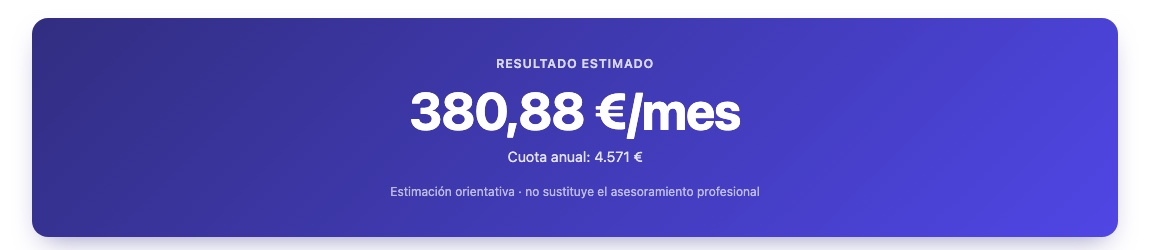
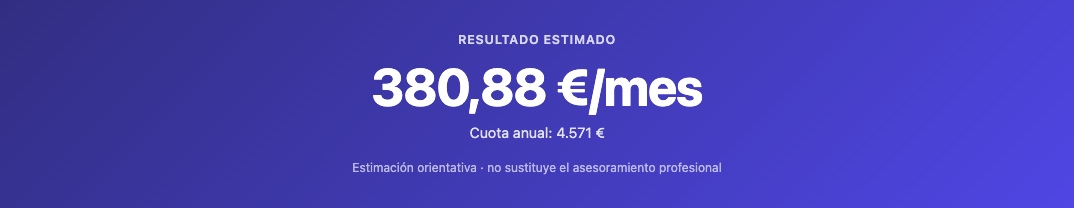
Calcula lo tuyo: cifras en color, capturas móviles, anatomía de página y rendimiento actualizado

diff --git a/calcula-lo-tuyo/index.html b/calcula-lo-tuyo/index.html
@@ -45,11 +45,19 @@
 
     /* ---------------- CIFRAS ---------------- */
     .cs-stats { padding: 8px 0 72px; }
-    .cs-stats-grid { display: grid; grid-template-columns: repeat(4, minmax(0, 1fr)); gap: 0; border-top: 1px solid var(--line); border-bottom: 1px solid var(--line); }
-    .cs-stat { padding: 32px 24px; border-left: 1px solid var(--line); }
-    .cs-stat:first-child { border-left: 0; padding-left: 0; }
-    .cs-stat b { display: block; font-size: clamp(2.4rem, 4.4vw, 3.6rem); font-weight: 500; letter-spacing: -0.04em; line-height: 1; color: var(--ink); }
-    .cs-stat span { display: block; margin-top: 10px; font-size: 15px; color: var(--ink-2); line-height: 1.4; }
+    .cs-stats-grid { display: grid; grid-template-columns: repeat(4, minmax(0, 1fr)); gap: 16px; }
+    .cs-stat { padding: 28px 26px 26px; border-radius: 22px; border: 1px solid rgb(0 0 0 / 5%); transition: transform .18s cubic-bezier(0.22, 0.61, 0.36, 1); }
+    .cs-stat:hover { transform: translateY(-4px) scale(1.02); }
+    .cs-stat b { display: block; font-size: clamp(2.8rem, 5vw, 4.2rem); font-weight: 500; letter-spacing: -0.045em; line-height: 1; }
+    .cs-stat span { display: block; margin-top: 14px; font-size: 15px; line-height: 1.4; color: rgb(0 0 0 / 66%); }
+    .cs-stat--lila { background: linear-gradient(145deg, #eef0ff 0%, #ddd9fb 100%); }
+    .cs-stat--lila b { color: #4f46e5; }
+    .cs-stat--menta { background: linear-gradient(145deg, #e2f8f2 0%, #c8ece3 100%); }
+    .cs-stat--menta b { color: #0f766e; }
+    .cs-stat--rosa { background: linear-gradient(145deg, #fdeef4 0%, #f8d7e6 100%); }
+    .cs-stat--rosa b { color: #be185d; }
+    .cs-stat--azul { background: linear-gradient(145deg, #e8f1ff 0%, #cfe2ff 100%); }
+    .cs-stat--azul b { color: #1d4ed8; }
 
     /* ---------------- CABECERA DE SECCIÓN ---------------- */
     .cs-section { padding: 40px 0 72px; }
@@ -64,15 +72,16 @@
     .cs-meta-label { margin-bottom: 8px; font-size: 14px; font-weight: 500; color: var(--ink-3); }
     .cs-meta-main { font-size: 16px; font-weight: 500; color: var(--ink); line-height: 1.45; }
     .project-meta-pills { display: flex; flex-wrap: wrap; gap: 8px; }
-    .meta-pill { padding: 6px 12px; border-radius: 999px; border: 1px solid rgba(148, 163, 184, 0.7); cursor: default; }
+    .meta-pill { padding: 6px 12px; border-radius: 999px; border: 1px solid rgba(148, 163, 184, 0.7); cursor: default; transition: transform 0.18s cubic-bezier(0.22, 0.61, 0.36, 1), background 0.18s ease; }
+    .meta-pill:hover { transform: translateY(-3px) scale(1.03); background: #fff; }
 
     /* ---------------- PANELES CON CAPTURAS ---------------- */
     .cs-panel { position: relative; padding: 48px 48px 0; border-radius: 24px; overflow: hidden; margin-bottom: 24px; }
-    .cs-panel--lila { background: linear-gradient(135deg, #eef0ff 0%, #ddd9fb 100%); }
-    .cs-panel--menta { background: linear-gradient(135deg, #e2f8f2 0%, #c8ece3 100%); }
-    .cs-panel .shot { border-radius: 14px 14px 0 0; overflow: hidden; max-height: 520px; box-shadow: 0 24px 60px -18px rgb(30 20 90 / 38%); background: #fff; }
+    .cs-panel--lila { background: var(--wash); }
+    .cs-panel--menta { background: var(--wash); }
+    .cs-panel .shot { border-radius: 14px 14px 0 0; overflow: hidden; max-height: 520px; box-shadow: 0 24px 60px -24px rgb(0 0 0 / 30%); background: #fff; }
     .cs-panel .shot img { width: 100%; }
-    .cs-float { position: absolute; right: 28px; bottom: 36px; width: 50%; max-width: 560px; border-radius: 16px; overflow: hidden; box-shadow: 0 26px 60px -12px rgb(30 20 90 / 55%); border: 1px solid rgb(255 255 255 / 70%); }
+    .cs-float { position: absolute; right: 28px; bottom: 36px; width: 50%; max-width: 560px; border-radius: 12px; overflow: hidden; box-shadow: 0 26px 60px -14px rgb(0 0 0 / 45%); }
     .cs-caption { margin: 0 0 24px; font-size: 14px; color: var(--ink-3); }
 
     /* ---------------- TARJETAS (BENTO) ---------------- */
@@ -121,6 +130,26 @@
     .ring span { display: block; margin-top: 8px; font-size: 13px; color: var(--ink-2); line-height: 1.3; }
     .cs-note { margin-top: 18px !important; font-size: 13px !important; color: var(--ink-3) !important; line-height: 1.5 !important; }
 
+
+    /* ---------------- MÓVILES ---------------- */
+    .cs-phones { display: flex; justify-content: center; align-items: flex-end; gap: 28px; padding: 48px 32px 0; border-radius: 24px; overflow: hidden; background: var(--wash); margin-bottom: 24px; }
+    .cs-phone { width: min(260px, 30%); border: 7px solid #0d0b12; border-bottom: 0; border-radius: 0; overflow: hidden; background: #fff; box-shadow: 0 24px 60px -24px rgb(0 0 0 / 40%); }
+    .cs-phone img { width: 100%; }
+
+    /* ---------------- ANATOMÍA DE UNA PÁGINA ---------------- */
+    .cs-rows { display: grid; gap: 24px; }
+    .cs-row { display: grid; grid-template-columns: minmax(0, 1fr) minmax(0, 1.5fr); gap: 48px; align-items: center; padding: 40px; border-radius: 26px; }
+    .cs-row--lila { background: var(--wash); }
+    .cs-row--menta { background: var(--wash); }
+    .cs-row--rosa { background: var(--wash); }
+    .cs-row--azul { background: var(--wash); }
+    .cs-row-n { display: inline-flex; align-items: center; justify-content: center; width: 34px; height: 34px; margin-bottom: 16px; border-radius: 50%; background: var(--ink); color: var(--bg-body); font-size: 15px; font-weight: 500; }
+    .cs-row h3 { margin: 0 0 12px; font-size: clamp(1.4rem, 2.4vw, 1.8rem); font-weight: 500; letter-spacing: -0.025em; line-height: 1.2; color: var(--ink); }
+    .cs-row p { margin: 0; font-size: 16px; line-height: 1.6; color: var(--ink-2); }
+    .cs-row p strong { color: var(--ink); font-weight: 500; }
+    .cs-row-media { display: grid; gap: 14px; }
+    .cs-row-media img { width: 100%; border-radius: 14px; box-shadow: 0 20px 50px -22px rgb(0 0 0 / 35%); background: #fff; }
+
     /* ---------------- CIERRE ---------------- */
     .cs-end { padding: 24px 0 72px; }
     .cs-end .cs-center { margin-bottom: 28px; }
@@ -147,8 +176,9 @@
       .card--5, .card--7, .card--12 { grid-column: auto; }
       .card--wide { flex-direction: column; gap: 24px; }
       .cs-stats-grid { grid-template-columns: repeat(2, minmax(0, 1fr)); }
-      .cs-stat:nth-child(3) { border-left: 0; padding-left: 0; }
-      .cs-stat:nth-child(n+3) { border-top: 1px solid var(--line); }
+      .cs-row { grid-template-columns: minmax(0, 1fr); gap: 28px; padding: 28px; }
+      .cs-phones { gap: 14px; padding: 32px 20px 0; }
+      .cs-phone { border-width: 5px; }
       .cs-meta { grid-template-columns: minmax(0, 1fr); gap: 24px; }
       .cs-panel { padding: 28px 24px 0; border-radius: 20px; }
       .cs-float { position: static; width: 100%; max-width: none; margin: 18px 0 24px; }
@@ -165,10 +195,18 @@
     }
 
     /* ---------------- MODO OSCURO ---------------- */
-    html[data-theme="dark"] .cs-panel--lila { background: linear-gradient(135deg, rgb(168 85 247 / 20%) 0%, rgb(99 102 241 / 14%) 100%); }
-    html[data-theme="dark"] .cs-panel--menta { background: linear-gradient(135deg, rgb(20 184 166 / 18%) 0%, rgb(16 120 110 / 12%) 100%); }
     html[data-theme="dark"] .project-hero-media { box-shadow: 0 24px 56px -32px rgb(168 85 247 / 20%); }
     html[data-theme="dark"] .code { border: 1px solid var(--line); }
+    html[data-theme="dark"] .cs-stat--lila { background: linear-gradient(135deg, rgb(168 85 247 / 20%) 0%, rgb(99 102 241 / 14%) 100%); }
+    html[data-theme="dark"] .cs-stat--menta { background: linear-gradient(135deg, rgb(20 184 166 / 18%) 0%, rgb(16 120 110 / 12%) 100%); }
+    html[data-theme="dark"] .cs-stat--rosa { background: linear-gradient(135deg, rgb(236 72 153 / 18%) 0%, rgb(190 24 93 / 12%) 100%); }
+    html[data-theme="dark"] .cs-stat--azul { background: linear-gradient(135deg, rgb(59 130 246 / 18%) 0%, rgb(29 78 216 / 12%) 100%); }
+    html[data-theme="dark"] .cs-stat { border-color: var(--line); }
+    html[data-theme="dark"] .cs-stat span { color: var(--ink-2); }
+    html[data-theme="dark"] .cs-stat--lila b { color: #a5b4fc; }
+    html[data-theme="dark"] .cs-stat--menta b { color: #5eead4; }
+    html[data-theme="dark"] .cs-stat--rosa b { color: #f9a8d4; }
+    html[data-theme="dark"] .cs-stat--azul b { color: #93c5fd; }
   </style>
   <link href="https://fonts.googleapis.com/css2?family=Inter:wght@400;500;600&display=swap" rel="stylesheet" />
   <link rel="stylesheet" href="../css/scandi-project.css" />
@@ -224,10 +262,10 @@
     <section class="cs-stats" aria-label="El proyecto en cifras">
       <div class="container">
         <div class="cs-stats-grid">
-          <div class="cs-stat"><b>16</b><span>calculadoras laborales</span></div>
-          <div class="cs-stat"><b>13</b><span>guías revisadas contra el BOE</span></div>
-          <div class="cs-stat"><b>155</b><span>páginas en el sitemap</span></div>
-          <div class="cs-stat"><b>27</b><span>pruebas automáticas de cálculo</span></div>
+          <div class="cs-stat cs-stat--lila"><b>16</b><span>calculadoras laborales</span></div>
+          <div class="cs-stat cs-stat--menta"><b>13</b><span>guías revisadas contra el BOE</span></div>
+          <div class="cs-stat cs-stat--rosa"><b>155</b><span>páginas en el sitemap</span></div>
+          <div class="cs-stat cs-stat--azul"><b>27</b><span>pruebas automáticas de cálculo</span></div>
         </div>
       </div>
     </section>
@@ -287,7 +325,7 @@
             <img src="img/calculadora.jpg" width="1440" height="1000" loading="lazy" alt="Calculadora de cuota de autónomos con respuesta rápida, formulario y botón de calcular" />
           </div>
           <figure class="cs-float">
-            <img src="img/resultado.jpg" width="1150" height="250" loading="lazy" alt="Resultado de la calculadora: 380,88 euros al mes de cuota y 4.571 euros al año" />
+            <img src="img/resultado.jpg" width="1074" height="208" loading="lazy" alt="Resultado de la calculadora: 380,88 euros al mes de cuota y 4.571 euros al año" />
           </figure>
         </div>
         <p class="cs-caption">Calculadora de autónomos: respuesta rápida arriba, formulario claro y un resultado grande.</p>
@@ -298,6 +336,102 @@
           </div>
         </div>
         <p class="cs-caption">Calendario 2027 con identidad propia (verde azulado) para no mezclarse con las calculadoras.</p>
+
+        <div class="cs-phones">
+          <figure class="cs-phone"><img src="img/movil-portada.jpg" width="780" height="1688" loading="lazy" alt="Portada de Calcula lo tuyo en el móvil: buscador y situaciones laborales en dos columnas" /></figure>
+          <figure class="cs-phone"><img src="img/movil-resultado.jpg" width="780" height="1688" loading="lazy" alt="Resultado de la calculadora de autónomos en el móvil con el desglose" /></figure>
+          <figure class="cs-phone"><img src="img/movil-calendario.jpg" width="780" height="1688" loading="lazy" alt="Calendario laboral 2027 en el móvil con filtro por comunidad" /></figure>
+        </div>
+        <p class="cs-caption">Y en el móvil: el mismo diseño, pensado para pantallas pequeñas.</p>
+      </div>
+    </section>
+
+    <!-- ANATOMÍA DE UNA PÁGINA -->
+    <section class="cs-section">
+      <div class="container">
+        <div class="cs-center">
+          <span class="cs-eyebrow">Anatomía de una página</span>
+          <h2>Cada página sigue el mismo orden</h2>
+          <p>
+            Tomando «Pagas extra» como ejemplo: primero se entiende con un caso real, después se confirma con la ley,
+            se resuelven las dudas y se acompaña a la persona hacia lo siguiente que va a necesitar.
+          </p>
+        </div>
+
+        <div class="cs-rows">
+
+          <div class="cs-row cs-row--lila">
+            <div>
+              <span class="cs-row-n">1</span>
+              <h3>Un caso real, paso a paso</h3>
+              <p>
+                Antes que la teoría, <strong>simulamos un caso</strong>: Sergio, comercial en Sevilla, con su sueldo, sus pagas y
+                el cálculo línea a línea. Se entiende sin saber de nóminas y funciona como respuesta concreta para quien busca justo eso.
+              </p>
+            </div>
+            <div class="cs-row-media">
+              <img src="img/ejemplo-caso.jpg" width="1150" height="920" loading="lazy" alt="Caso de Sergio en la página de pagas extra: cálculo paso a paso con el total acumulado" />
+            </div>
+          </div>
+
+          <div class="cs-row cs-row--menta">
+            <div>
+              <span class="cs-row-n">2</span>
+              <h3>Lo que dice la ley y lo que dice tu convenio</h3>
+              <p>
+                Después, la <strong>norma</strong> explicada en llano: qué garantiza el Estatuto de los Trabajadores, qué decide el convenio
+                y cómo afectan la Seguridad Social, el IRPF y los casos especiales.
+              </p>
+            </div>
+            <div class="cs-row-media">
+              <img src="img/ejemplo-ley.jpg" width="1150" height="650" loading="lazy" alt="Sección sobre lo que dice la ley y el convenio en la página de pagas extra" />
+            </div>
+          </div>
+
+          <div class="cs-row cs-row--rosa">
+            <div>
+              <span class="cs-row-n">3</span>
+              <h3>Preguntas frecuentes</h3>
+              <p>
+                Las <strong>dudas reales</strong> de la gente, en formato pregunta y respuesta. Sirven a quien lee y también a los
+                buscadores y a las IA, que pueden citar la respuesta exacta.
+              </p>
+            </div>
+            <div class="cs-row-media">
+              <img src="img/ejemplo-faq.jpg" width="1150" height="375" loading="lazy" alt="Preguntas frecuentes desplegables sobre las pagas extra" />
+            </div>
+          </div>
+
+          <div class="cs-row cs-row--azul">
+            <div>
+              <span class="cs-row-n">4</span>
+              <h3>Calculadoras y guías relacionadas</h3>
+              <p>
+                Para no dejar a la persona en un callejón sin salida, cada página <strong>enlaza lo siguiente que va a necesitar</strong>
+                (el finiquito, el sueldo neto, el IRPF) y las guías para entender el porqué. Además refuerza la estructura interna de la web.
+              </p>
+            </div>
+            <div class="cs-row-media">
+              <img src="img/ejemplo-relacionadas.jpg" width="1150" height="290" loading="lazy" alt="Calculadoras relacionadas con las pagas extra: finiquito, sueldo neto e IRPF" />
+              <img src="img/ejemplo-guias.jpg" width="1150" height="330" loading="lazy" alt="Guías relacionadas: cómo leer tu nómina, guía del finiquito y de la baja voluntaria" />
+            </div>
+          </div>
+
+          <div class="cs-row cs-row--lila">
+            <div>
+              <span class="cs-row-n">5</span>
+              <h3>Algo de valor para llevarte</h3>
+              <p>
+                La web no solo calcula: ofrece <strong>14 modelos y plantillas gratis</strong> en Word, PDF y Excel (cartas de baja voluntaria,
+                solicitudes de reducción de jornada o vacaciones, facturas…), sin registro. Es lo que hace que merezca la pena volver.
+              </p>
+            </div>
+            <div class="cs-row-media">
+              <img src="img/modelos.jpg" width="1150" height="575" loading="lazy" alt="Página de modelos y plantillas laborales gratuitas en Word, PDF y Excel" />
+            </div>
+          </div>
+
+        </div>
       </div>
     </section>
 
@@ -333,26 +467,27 @@
           <!-- VELOCIDAD -->
           <article class="card card--7">
             <div class="card-label">Velocidad</div>
-            <h3>42 KB propios y cero frameworks</h3>
+            <h3>42 KB al entrar y cero frameworks</h3>
             <p>
               HTML, CSS y JavaScript puros, tipografía del sistema, iconos en un único SVG y cálculos en el navegador:
-              no hay servidor ni esperas.
+              no hay servidor ni esperas. Los scripts de terceros (publicidad y aviso de cookies) no cargan al entrar,
+              sino con el primer gesto de la persona o, como mucho, a los 10 segundos.
             </p>
             <div class="card-visual">
               <div class="bars">
                 <div>
-                  <div class="bar-top"><span>Lo que carga mi web</span><b>42 KB</b></div>
-                  <div class="bar-track"><i style="width:12.5%"></i></div>
+                  <div class="bar-top"><span>Tiempo hasta ver lo principal, antes</span><b>4,9 s</b></div>
+                  <div class="bar-track"><i class="ext" style="width:100%"></i></div>
                 </div>
                 <div>
-                  <div class="bar-top"><span>Scripts de terceros de Google</span><b>294 KB</b></div>
-                  <div class="bar-track"><i class="ext" style="width:87.5%"></i></div>
+                  <div class="bar-top"><span>Tiempo hasta ver lo principal, ahora</span><b>2,1 s</b></div>
+                  <div class="bar-track"><i style="width:43%"></i></div>
                 </div>
               </div>
 
-              <div class="rings" role="img" aria-label="Lighthouse en móvil: rendimiento 74, accesibilidad 95, buenas prácticas 100, SEO 100">
+              <div class="rings" role="img" aria-label="Lighthouse en móvil: rendimiento 97, accesibilidad 95, buenas prácticas 100, SEO 100">
                 <div class="ring">
-                  <svg viewBox="0 0 80 80" aria-hidden="true"><circle class="trk" cx="40" cy="40" r="34"/><circle class="val" cx="40" cy="40" r="34" stroke="#f59e0b" stroke-dasharray="158.1 213.6"/><text x="40" y="49">74</text></svg>
+                  <svg viewBox="0 0 80 80" aria-hidden="true"><circle class="trk" cx="40" cy="40" r="34"/><circle class="val" cx="40" cy="40" r="34" stroke="#10b981" stroke-dasharray="207.2 213.6"/><text x="40" y="49">97</text></svg>
                   <span>Rendimiento</span>
                 </div>
                 <div class="ring">
@@ -369,8 +504,7 @@
                 </div>
               </div>
               <p class="cs-note">
-                Lighthouse en móvil sobre la web publicada (22 oct. 2026, red 4G simulada). Lo que frena el 74 no es mi código,
-                sino los scripts de terceros: el siguiente paso es retrasar su carga.
+                Lighthouse en móvil sobre la web publicada (22 oct. 2026, red 4G simulada). Otras páginas: paro 99, lotería de Navidad 99 y sueldo neto 97.
               </p>
             </div>
           </article>
